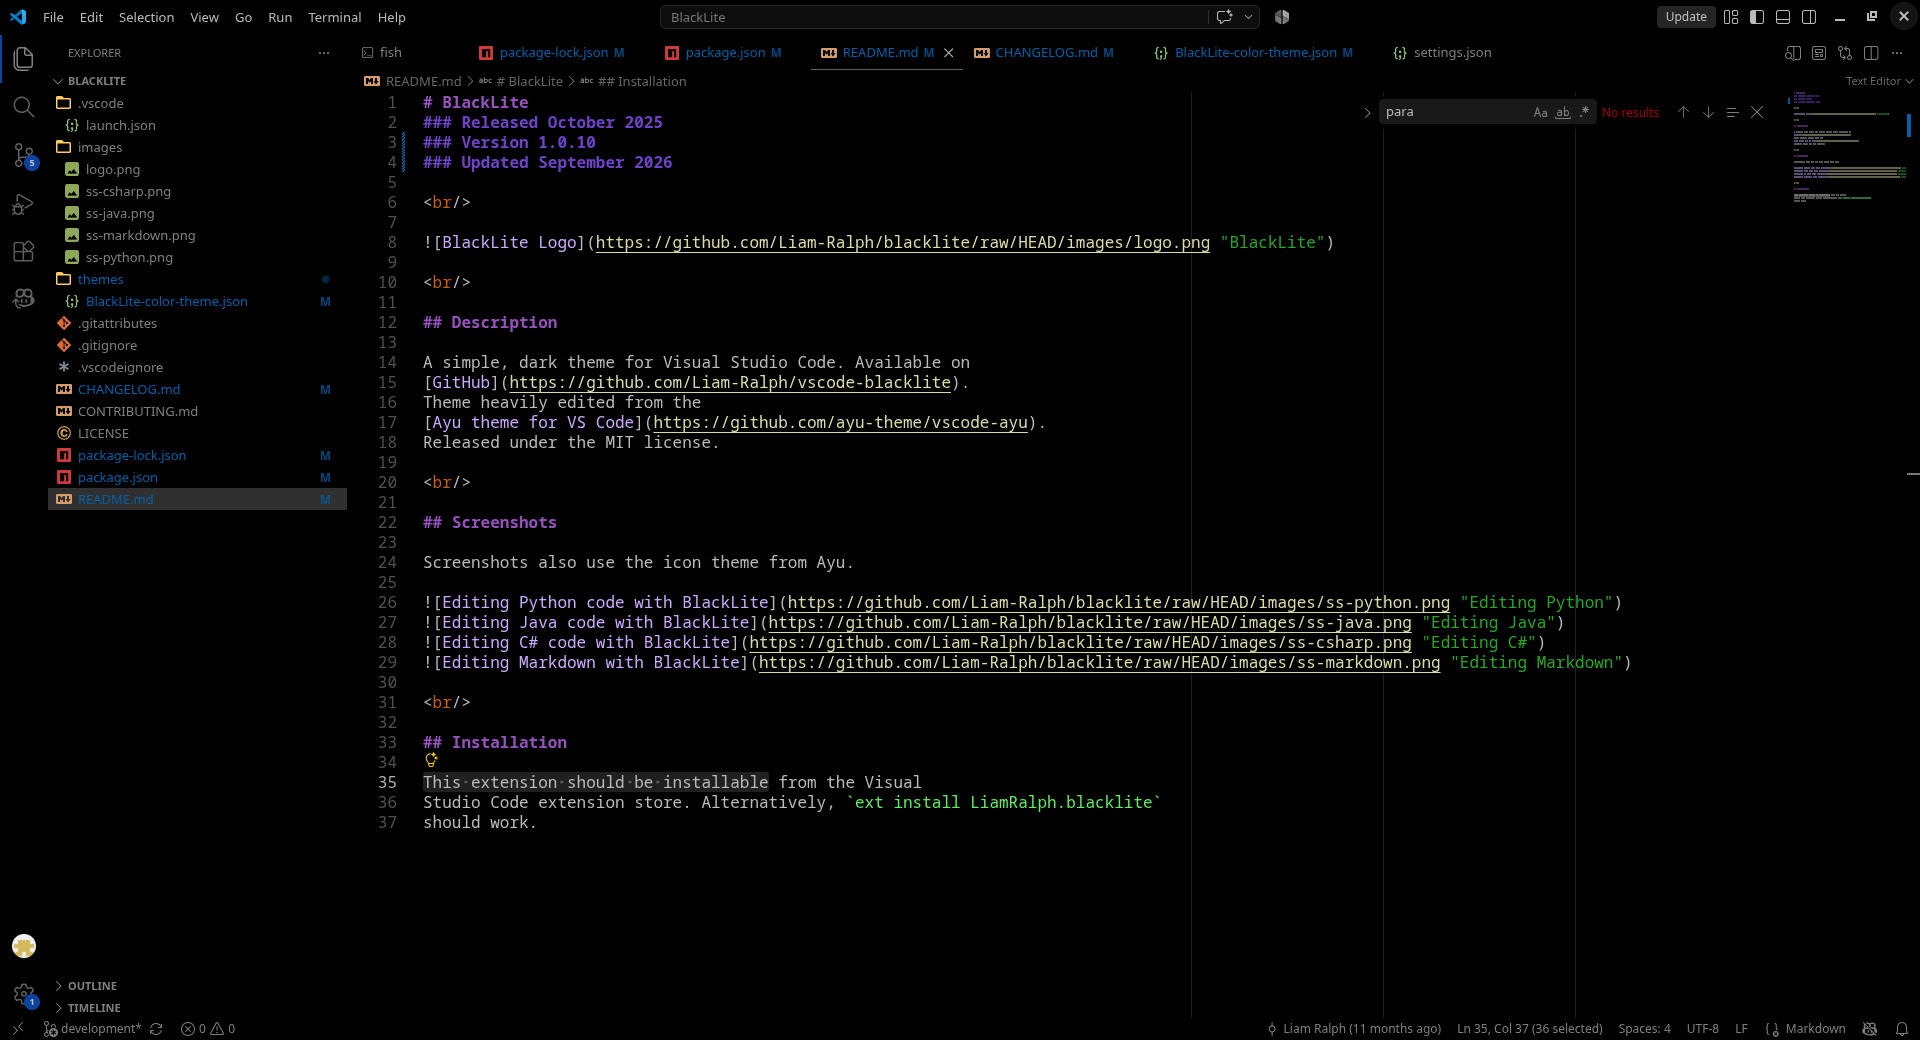
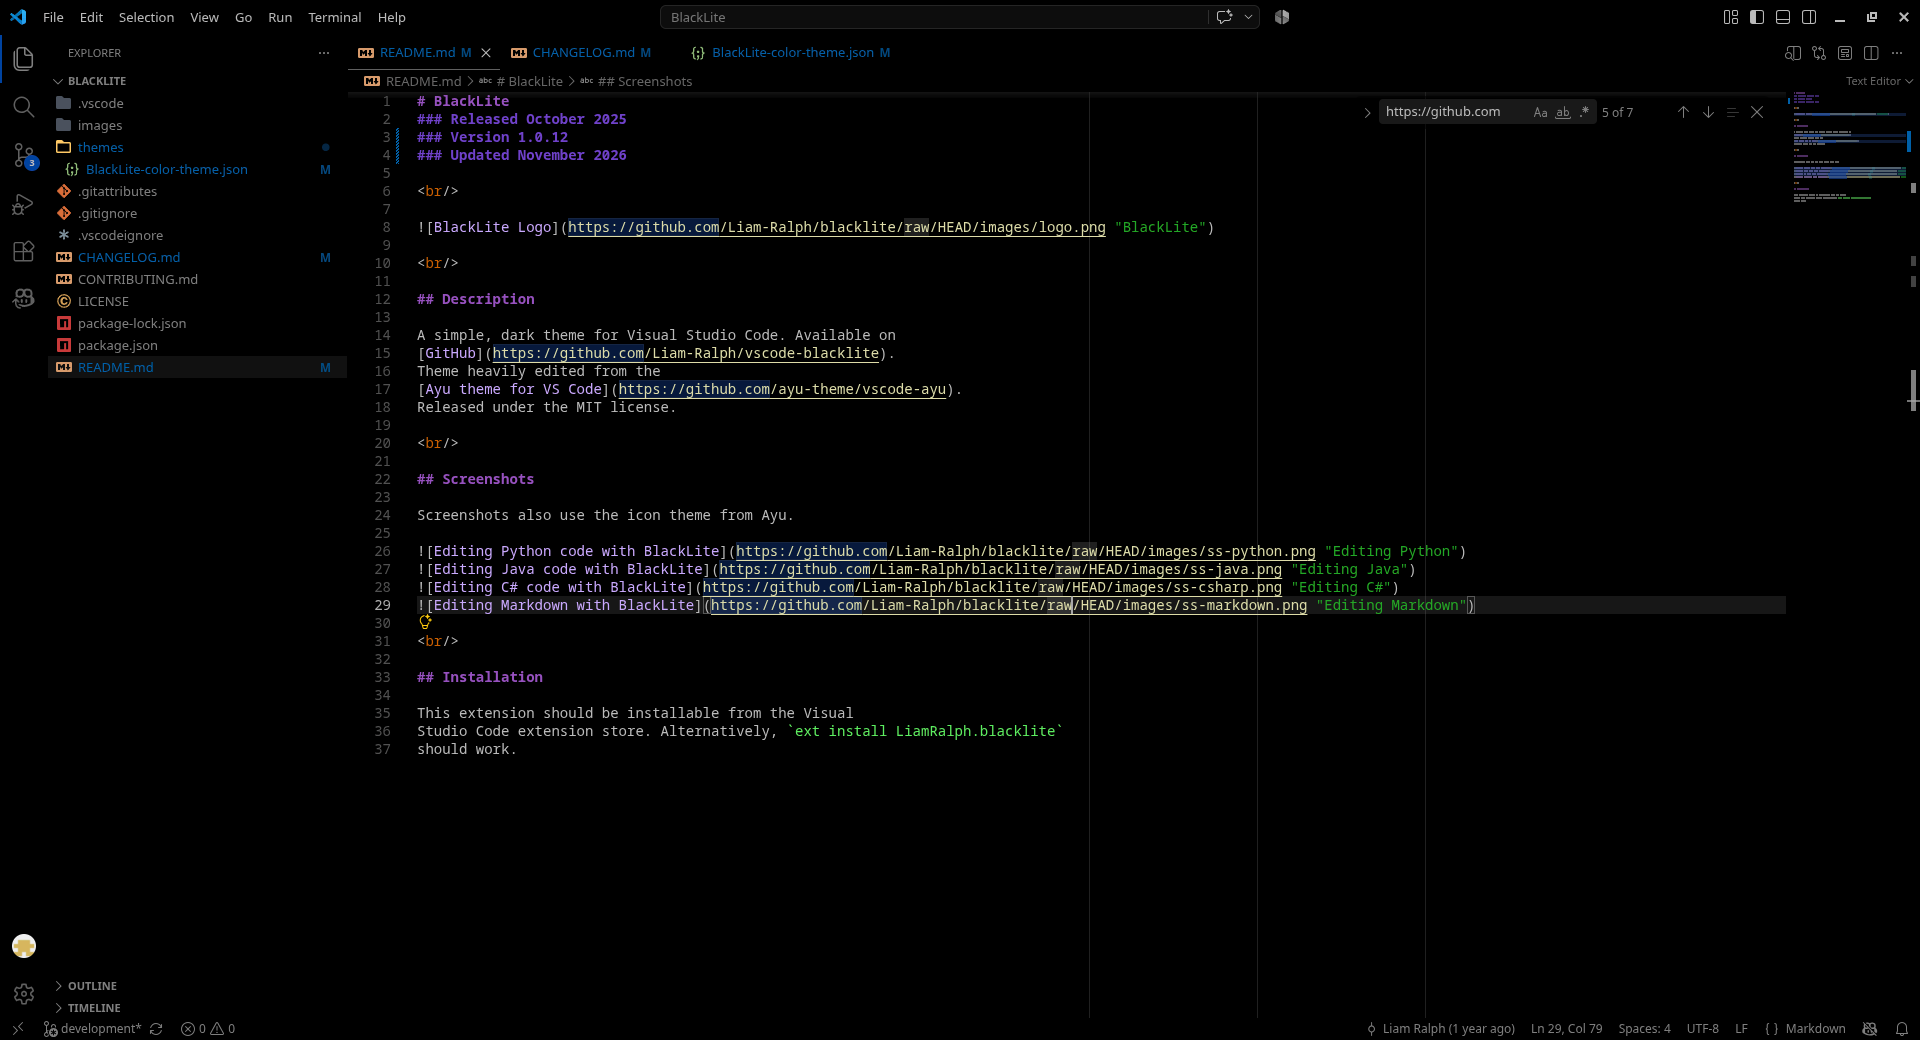
change colors for selection, find match, UI list/dropdown, and peek view

diff --git a/CHANGELOG.md b/CHANGELOG.md
@@ -1,3 +1,10 @@
+## Version 1.0.12 (November 2026)
+
+ - Changed selection colors to teal.
+ - Slightly modified peek view colors.
+ - Changed find match colors.
+ - Slightly modified list/dropdown colors.
+
 ## Version 1.0.11 (September 2026)
 
  - Changed Java imports.

diff --git a/README.md b/README.md
@@ -1,7 +1,7 @@
 # BlackLite
 ### Released October 2025
-### Version 1.0.11
-### Updated September 2026
+### Version 1.0.12
+### Updated November 2026
 
 <br/>
 
